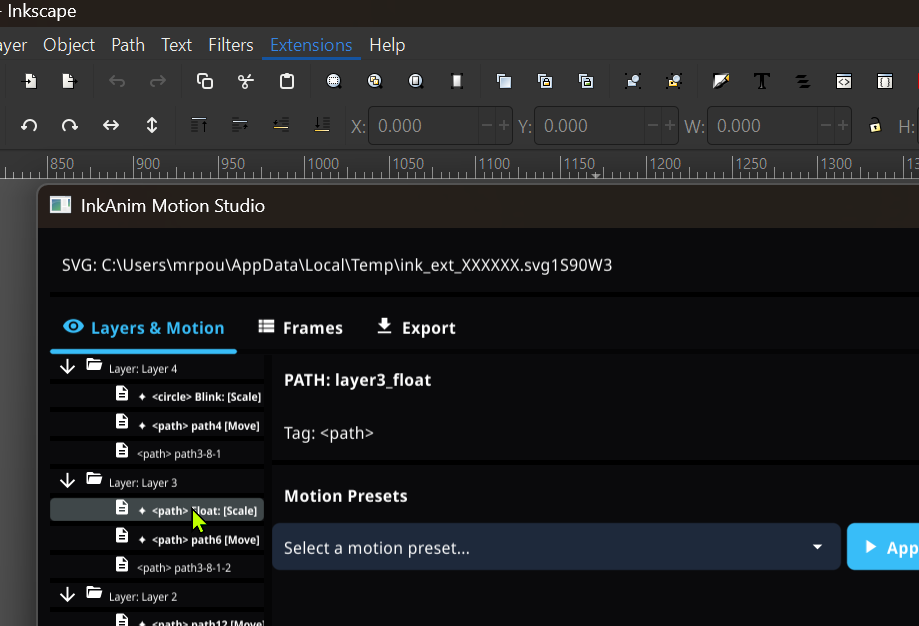
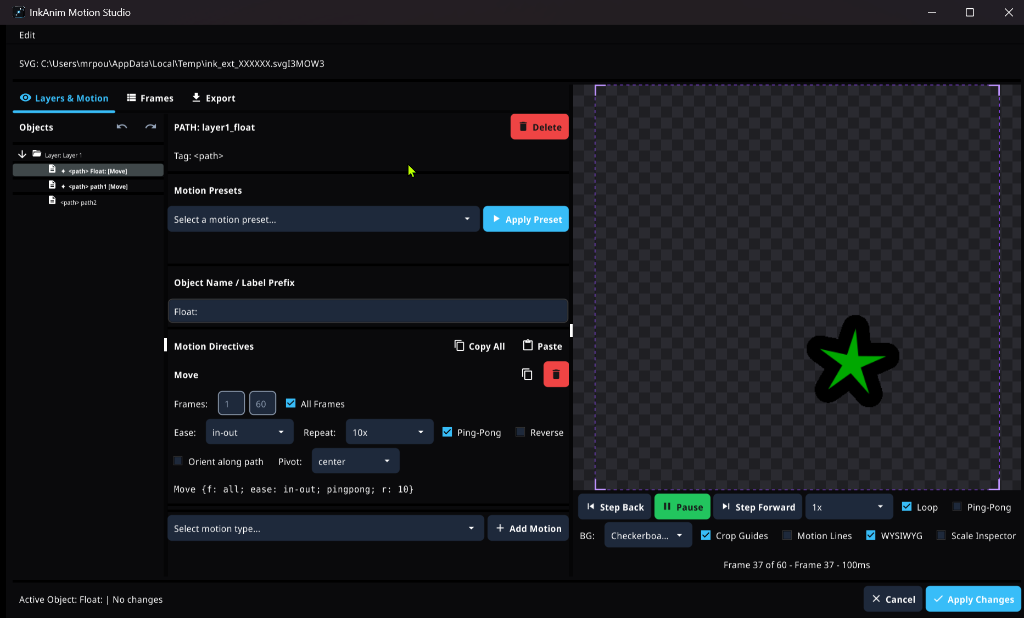
docs(web): update landing pages and screenshots for v0.5.0-beta2

diff --git a/web/landing/beta/index.html b/web/landing/beta/index.html
@@ -3,8 +3,8 @@
 <head>
   <meta charset="UTF-8">
   <meta name="viewport" content="width=device-width, initial-scale=1.0">
-  <title>v0.5.0-beta — Inkscape Motion Studio Extension | InkAnim</title>
-  <meta name="description" content="Try the v0.5.0-beta release of InkAnim featuring the native Inkscape Motion Studio desktop extension, visual parameter inspector, motion presets, and clamp-and-hold poses.">
+  <title>v0.5.0-beta2 — Inkscape Motion Studio Extension | InkAnim</title>
+  <meta name="description" content="Try the v0.5.0-beta2 release of InkAnim featuring the native Inkscape Motion Studio desktop extension, visual parameter inspector, motion presets, undo/redo, copy/paste, and clamp-and-hold poses.">
   <link rel="icon" type="image/png" href="../icon.png">
   <link rel="preconnect" href="https://fonts.googleapis.com">
   <link rel="preconnect" href="https://fonts.gstatic.com" crossorigin>
@@ -348,8 +348,8 @@
           <svg width="18" height="18" viewBox="0 0 24 24" fill="currentColor"><path d="M12 0C5.37 0 0 5.37 0 12c0 5.31 3.435 9.795 8.205 11.385.6.105.825-.255.825-.57 0-.285-.015-1.23-.015-2.235-3.015.555-3.795-.735-4.035-1.41-.135-.345-.72-1.41-1.23-1.695-.42-.225-1.02-.78-.015-.795.945-.015 1.62.87 1.845 1.23 1.08 1.815 2.805 1.305 3.495.99.105-.78.42-1.305.765-1.605-2.67-.3-5.46-1.335-5.46-5.925 0-1.305.465-2.385 1.23-3.225-.12-.3-.54-1.53.12-3.18 0 0 1.005-.315 3.3 1.23.96-.27 1.98-.405 3-.405s2.04.135 3 .405c2.295-1.56 3.3-1.23 3.3-1.23.66 1.65.24 2.88.12 3.18.765.84 1.23 1.905 1.23 3.225 0 4.605-2.805 5.625-5.475 5.925.435.375.81 1.095.81 2.22 0 1.605-.015 2.895-.015 3.3 0 .315.225.69.825.57A12.02 12.02 0 0024 12c0-6.63-5.37-12-12-12z"/></svg>
           GitHub
         </a>
-        <a href="https://github.com/mrpoundsign/InkAnim/releases/tag/v0.5.0-beta" target="_blank" rel="noopener noreferrer" class="btn btn-primary">
-          <span>⚡ Download v0.5.0-beta</span>
+        <a href="https://github.com/mrpoundsign/InkAnim/releases/tag/v0.5.0-beta2" target="_blank" rel="noopener noreferrer" class="btn btn-primary">
+          <span>⚡ Download v0.5.0-beta2</span>
         </a>
       </div>
     </div>
@@ -359,7 +359,7 @@
   <header class="beta-page-hero">
     <div class="container">
       <div class="beta-release-pill">
-        🧪 Preview Release · Version 0.5.0-beta
+        🧪 Preview Release · Version 0.5.0-beta2
       </div>
       <h1 class="hero-title" style="margin-bottom: 16px;">
         Inkscape Motion Studio Extension
@@ -374,11 +374,11 @@
       </div>
 
       <div class="hero-buttons" style="justify-content: center; margin-bottom: 24px;">
-        <a href="https://github.com/mrpoundsign/InkAnim/releases/tag/v0.5.0-beta" target="_blank" rel="noopener noreferrer" class="btn btn-primary btn-lg">
+        <a href="https://github.com/mrpoundsign/InkAnim/releases/tag/v0.5.0-beta2" target="_blank" rel="noopener noreferrer" class="btn btn-primary btn-lg">
           <svg width="20" height="20" fill="none" stroke="currentColor" viewBox="0 0 24 24" stroke-width="2"><path d="M21 15v4a2 2 0 0 1-2 2H5a2 2 0 0 1-2-2v-4M7 10l5 5 5-5M12 15V3"/></svg>
-          Download v0.5.0-beta on GitHub
+          Download v0.5.0-beta2 on GitHub
         </a>
-        <a href="https://github.com/mrpoundsign/InkAnim/blob/main/CHANGELOG.md#050-beta---2026-10-07" target="_blank" rel="noopener noreferrer" class="btn btn-secondary btn-lg">
+        <a href="https://github.com/mrpoundsign/InkAnim/blob/main/CHANGELOG.md#050-beta2---unreleased" target="_blank" rel="noopener noreferrer" class="btn btn-secondary btn-lg">
           📖 Full Changelog
         </a>
       </div>
@@ -404,7 +404,7 @@
   <!-- Features Section -->
   <main class="container" id="features">
     <div class="section-header" style="text-align: center; margin-bottom: 24px;">
-      <div class="section-subtitle">What's in v0.5.0-beta</div>
+      <div class="section-subtitle">What's in v0.5.0-beta2</div>
       <h2 class="section-title">Built for Emote Animators in Inkscape</h2>
     </div>
 
@@ -419,6 +419,24 @@
         <div class="beta-feature-icon">📑</div>
         <h3>Full-Height Tabbed Studio</h3>
         <p>Three dedicated full-height workspaces: <strong>Layers &amp; Motion</strong> for inspecting objects and directives, <strong>Frames</strong> for timing and crop boundaries, and <strong>Export</strong> for GIF generation.</p>
+      </div>
+
+      <div class="beta-feature-card">
+        <div class="beta-feature-icon">↩</div>
+        <h3>Undo &amp; Redo History</h3>
+        <p>Full bidirectional undo/redo support with standard keyboard shortcuts (<code>Ctrl+Z</code> / <code>Ctrl+Y</code>) and dedicated toolbar buttons to safely experiment without fear of losing work.</p>
+      </div>
+
+      <div class="beta-feature-card">
+        <div class="beta-feature-icon">📋</div>
+        <h3>Copy &amp; Paste Directives</h3>
+        <p>Copy individual motion cards or all directives from one element and paste onto another with one click. Intelligently duplicates referenced pivot objects so animations remain decoupled.</p>
+      </div>
+
+      <div class="beta-feature-card">
+        <div class="beta-feature-icon">🗑</div>
+        <h3>Element &amp; Anchor Deletion</h3>
+        <p>Delete vector paths, shapes, or motion anchors directly from the inspector or with the <code>Delete</code> key. Byte-splicing preserves untouched SVG markup and comments.</p>
       </div>
 
       <div class="beta-feature-card">
@@ -492,6 +510,18 @@
             <p>Select from built-in presets including Spin, Pulse, Float, Shake, Fade, and Blink, and dial in easing curves, ping-pong, and repeats with UI widgets.</p>
           </div>
         </div>
+
+        <!-- 4. Stack & Copy/Paste Directives -->
+        <div class="beta-walkthrough-card">
+          <div class="beta-walkthrough-thumb">
+            <img src="images/ext_multimotion.png" alt="Stacked Motion Directives with Copy/Paste" loading="lazy">
+          </div>
+          <div class="beta-walkthrough-body">
+            <span class="beta-walkthrough-step">Step 4 · Multi-Motion Directives</span>
+            <h3>Stack &amp; Re-Use Directives</h3>
+            <p>Combine multiple movements like translation, rotation, and scaling on single elements. Use the Copy &amp; Paste toolbar to transfer motion curves across objects with one click.</p>
+          </div>
+        </div>
       </div>
     </section>
 
@@ -503,19 +533,19 @@
       <ul class="install-step-list">
         <li class="install-step-item">
           <h4>Download the Extension Package for Your OS</h4>
-          <p style="margin-bottom: 12px;">Grab the archive matching your platform from <a href="https://github.com/mrpoundsign/InkAnim/releases/tag/v0.5.0-beta" target="_blank" rel="noopener noreferrer" style="color: #38bdf8; font-weight: 600;">GitHub Releases</a>:</p>
+          <p style="margin-bottom: 12px;">Grab the archive matching your platform from <a href="https://github.com/mrpoundsign/InkAnim/releases/tag/v0.5.0-beta2" target="_blank" rel="noopener noreferrer" style="color: #38bdf8; font-weight: 600;">GitHub Releases</a>:</p>
           <div class="platform-downloads-grid">
             <div class="platform-download-item">
               <span class="os-tag">🪟 Windows (x64)</span>
-              <code>InkAnim_v0.5.0-beta_inkscape-extension_windows_amd64.zip</code>
+              <code>InkAnim_v0.5.0-beta2_inkscape-extension_windows_amd64.zip</code>
             </div>
             <div class="platform-download-item">
               <span class="os-tag">🍎 macOS (Apple Silicon &amp; Intel Universal)</span>
-              <code>InkAnim_v0.5.0-beta_inkscape-extension_darwin_all.zip</code>
+              <code>InkAnim_v0.5.0-beta2_inkscape-extension_darwin_all.zip</code>
             </div>
             <div class="platform-download-item">
               <span class="os-tag">🐧 Linux (x86_64)</span>
-              <code>InkAnim_v0.5.0-beta_inkscape-extension_linux_amd64.tar.xz</code>
+              <code>InkAnim_v0.5.0-beta2_inkscape-extension_linux_amd64.tar.xz</code>
             </div>
           </div>
         </li>

diff --git a/web/landing/index.html b/web/landing/index.html
@@ -296,21 +296,21 @@
       <!-- Beta Release Section -->
       <div id="beta" class="beta-box">
         <div class="beta-header">
-          <span class="beta-badge">🧪 Beta Release · v0.5.0-beta</span>
+          <span class="beta-badge">🧪 Beta Release · v0.5.0-beta2</span>
           <span class="beta-tag">New Inkscape Extension</span>
         </div>
         <div class="beta-body">
           <div class="beta-text">
             <h3>Inkscape Motion Studio Extension</h3>
             <p>
-              Animate directly inside Inkscape! The new <strong>v0.5.0-beta</strong> release introduces our native cross-platform Inkscape extension for Windows, macOS, and Linux (<code>Extensions &rarr; InkAnim &rarr; Motion Editor</code>), featuring full-height <strong>Layers &amp; Motion</strong>, <strong>Frames</strong>, and <strong>Export</strong> tabs, dedicated parameter widgets, clamp-and-hold pose preservation, and native GIF export.
+              Animate directly inside Inkscape! The new <strong>v0.5.0-beta2</strong> release expands our native cross-platform Inkscape extension for Windows, macOS, and Linux (<code>Extensions &rarr; InkAnim &rarr; Motion Editor</code>) with full bidirectional <strong>Undo/Redo</strong>, direct <strong>element deletion</strong>, <strong>Copy &amp; Paste motion directives</strong>, and intelligent <strong>object pivot decoupling</strong> alongside native GIF export.
             </p>
           </div>
           <div class="beta-actions">
             <a href="beta/" class="btn btn-primary">
-              ⚡ Explore v0.5.0-beta
+              ⚡ Explore v0.5.0-beta2
             </a>
-            <a href="https://github.com/mrpoundsign/InkAnim/releases/tag/v0.5.0-beta" target="_blank" rel="noopener noreferrer" class="btn btn-secondary">
+            <a href="https://github.com/mrpoundsign/InkAnim/releases/tag/v0.5.0-beta2" target="_blank" rel="noopener noreferrer" class="btn btn-secondary">
               📥 Download on GitHub
             </a>
           </div>
@@ -335,8 +335,8 @@
             <div class="download-platform">Inkscape Extension (Beta)</div>
             <div class="download-info">Desktop plugin bundle for Inkscape on Windows, macOS, and Linux. Author IAMS motion trajectories and export Twitch GIFs directly from the canvas.</div>
           </div>
-          <a href="https://github.com/mrpoundsign/InkAnim/releases/tag/v0.5.0-beta" target="_blank" rel="noopener noreferrer" class="btn btn-primary">
-            Download v0.5.0-beta
+          <a href="https://github.com/mrpoundsign/InkAnim/releases/tag/v0.5.0-beta2" target="_blank" rel="noopener noreferrer" class="btn btn-primary">
+            Download v0.5.0-beta2
           </a>
         </div>
 
@@ -371,7 +371,7 @@
         <strong>InkAnim</strong> — Open source under the MIT License.
       </div>
       <ul class="footer-links">
-        <li><a href="beta/" class="footer-link">v0.5.0-beta</a></li>
+        <li><a href="beta/" class="footer-link">v0.5.0-beta2</a></li>
         <li><a href="./demo/" class="footer-link">Interactive Demo</a></li>
         <li><a href="https://github.com/mrpoundsign/InkAnim" target="_blank" rel="noopener noreferrer" class="footer-link">GitHub</a></li>
         <li><a href="https://github.com/mrpoundsign/InkAnim/issues" target="_blank" rel="noopener noreferrer" class="footer-link">Report Issue</a></li>
